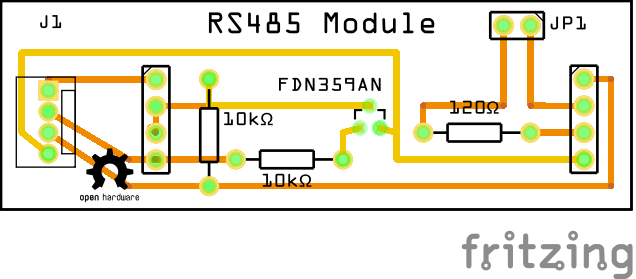
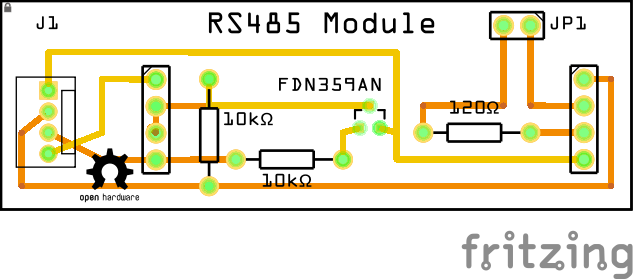
Update file

diff --git a/Communication/RS485/MAX485_RS-485_Module.md b/Communication/RS485/MAX485_RS-485_Module.md
@@ -15,7 +15,7 @@ Sonstiges:
 - Bezugsquelle eBay
 - Kennzeichnung: LC Electronis
 
-Die Datenleitungen A und B sind als Schraubklemme rausgeführt. Zusätzlich sind diese mit VCC und GND als 4 Pol Stiftleiste herausgeführt. Ein Abschlußwiderstand vcon 120 Ohm ist nicht on Board. View Anschlüsse sind auf der TTL-Seite für das Senden und  Empfangen der Daten (TTL TX/RX) und zwei Steuerleitungen (TTL RTS/CTS), die laut Beschreibung vom Mikrocontroller gesteuert werden sollen.
+Die Datenleitungen A und B sind als Schraubklemme rausgeführt. Zusätzlich sind diese mit VCC und GND als 4 Pol Stiftleiste herausgeführt. Ein Abschlußwiderstand von 120 Ohm ist nicht bei jeden Boards vorhanden (laut c't Sonderheft). Vier Anschlüsse sind auf der TTL-Seite für das Senden und Empfangen der Daten (TTL DI/RO) und zwei Steuerleitungen (TTL DE/RE), die laut Beschreibung vom Mikrocontroller gesteuert werden sollen.
 
 Mit Hilfe eines High-Speed FETs kann das Umschalten der Steuerleitung automatisiert werden. Nähres hierzu ist unter anderem in c't Sonderheft Raspberry PI von 2017 beschrieben. 
 
@@ -25,8 +25,8 @@ Mit Hilfe eines High-Speed FETs kann das Umschalten der Steuerleitung automatisi
                 |     10k                       |    
                 |    .-----------------------.  |   |JP1|
 RX)-------------)---<| o RO            VCC o |--' .--o o--.
-                o--o-| o RE   RS-485     A o |----'  ___  |
-                |  '-| o DE   Modul      B o |------|___|-'
+                o--o-| o RE   RS-485     B o |----'  ___  |
+                |  '-| o DE   Modul      A o |------|___|-'
     .-----------)--->| o DI            GND o |--.    120
     |           |    '-----------------------'  |
     |   ___   |-+                               |
@@ -38,17 +38,17 @@ TX)-o--|___|->|                                 |
 
 Grove | Bezeichnung
 --- | ---
-Pin 1 | RX
-Pin 2 | TX
-Pin 3 | V 
-Pin 4 | G
+Pin 1 | G
+Pin 2 | V
+Pin 3 | TX
+Pin 4 | RX
 
 __JP1__ ist ein Jumper um ggf. den RS485-Bus mit einem 120-Ohm Widerstand zu terminieren. 
 
 Die Anschlüsse für A und B stehen über die Schraubklemme zur Verfügung.
 
 ![alt text][Platine]
->Abb: Platine, __ACHTUNG__ mit spiegelverkehrtem Grove Stecker!
+>Abb: Platine
 
 ### Nützliche Links
 - http://github.com/franzs/raspberry_pi_rs485
